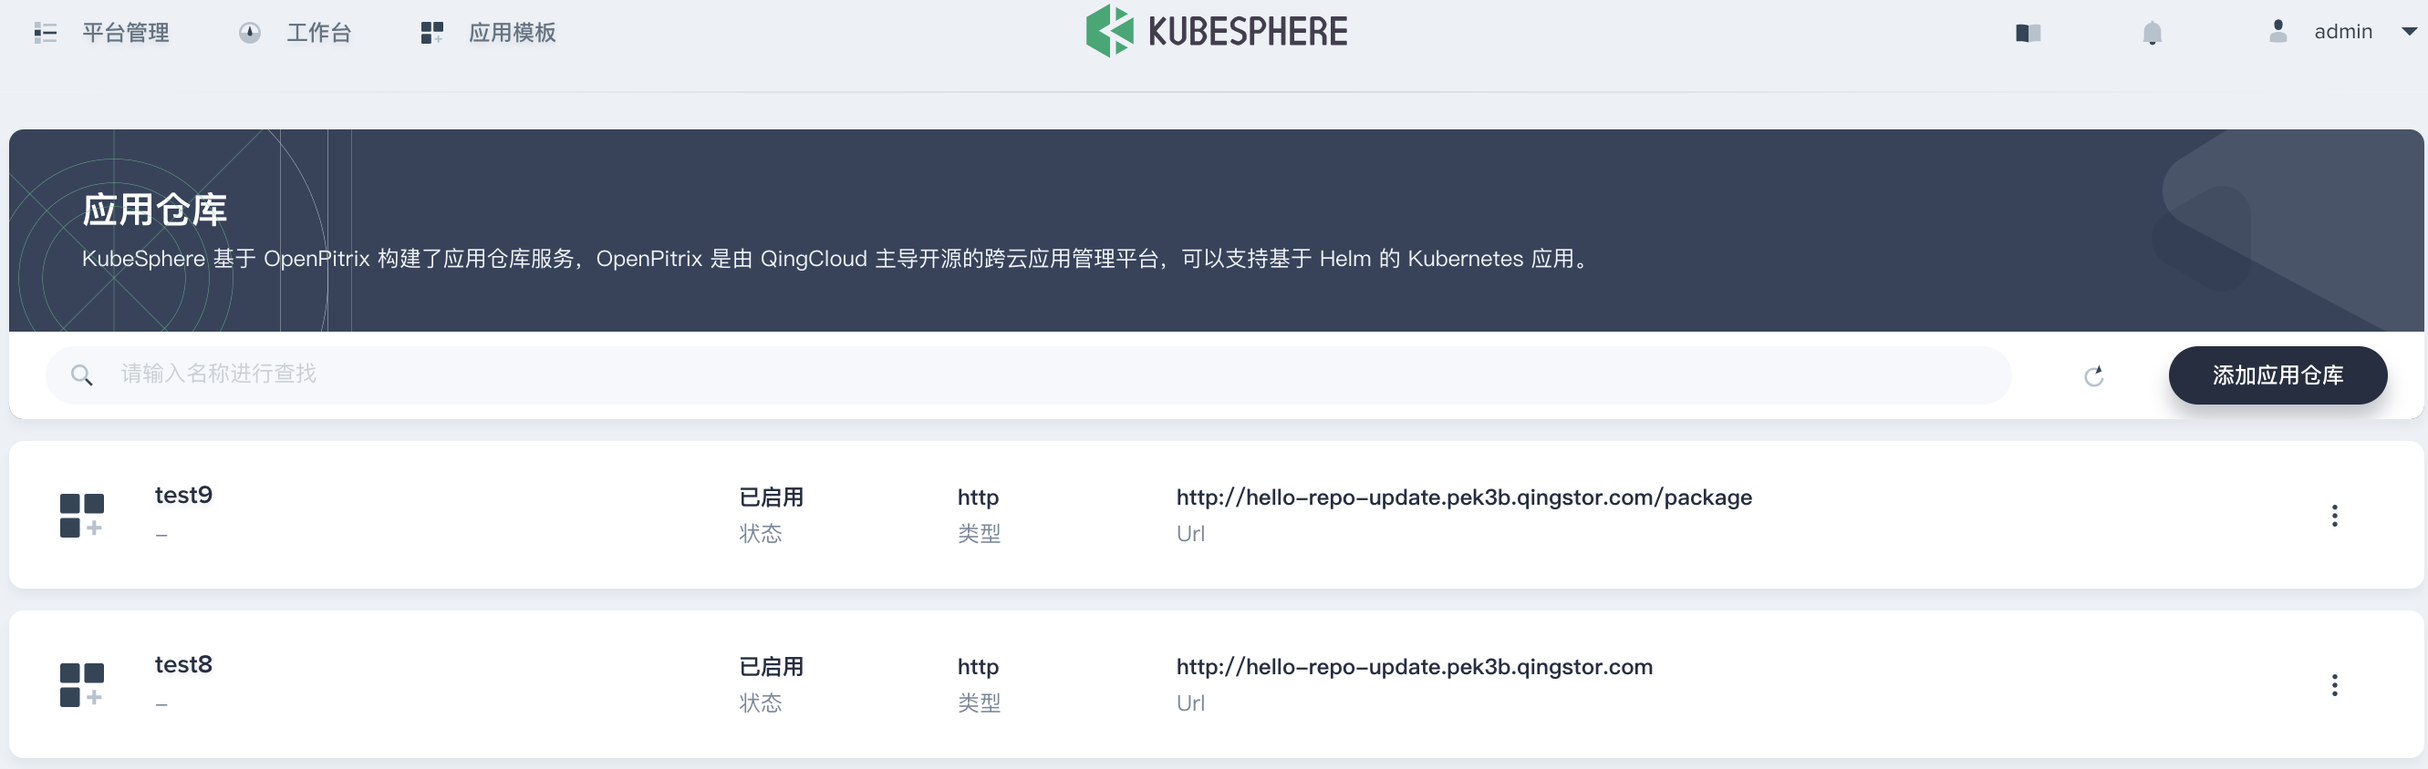
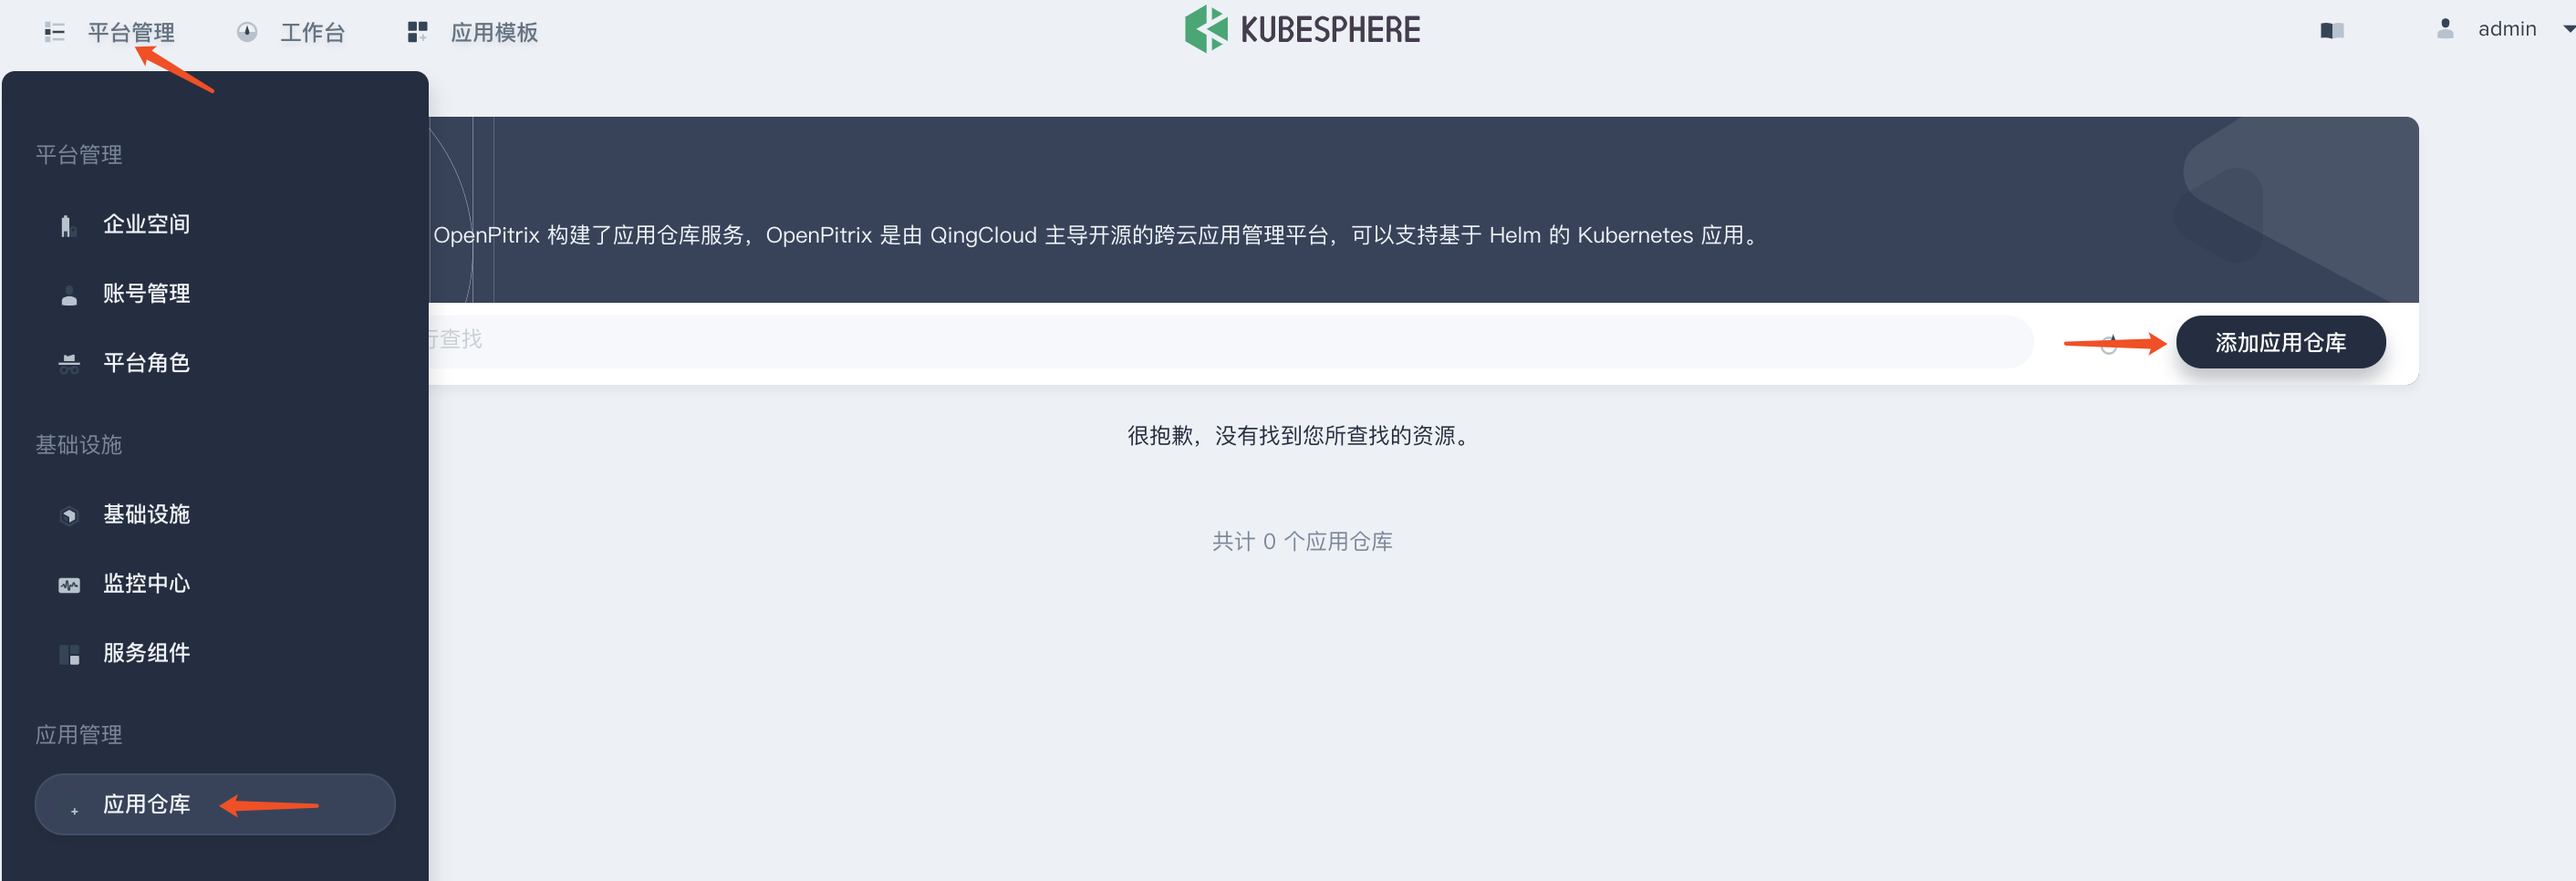
add app template

diff --git a/content/advanced-v1.0/zh-CN/app-template/app-template.md b/content/advanced-v1.0/zh-CN/app-template/app-template.md
@@ -2,9 +2,49 @@
 title: "应用模板"
 ---
 
-应用为用户提供完整的业务功能，由一个或多个特定功能的组件组成。KubeSphere 应用模板所纳管的应用基于 Helm 打包规范构建，并通过统一的公有或私有的应用仓库交付使用，应用可根据自身特性由一个或多个 Kubernetes 工作负载 (workload) 和服务组成。
+应用模板是 KubeSphere 中应用的存储、交付、管理途径，应用模板所纳管的应用基于 [Helm](https://helm.sh/) 打包规范构建，并通过统一的公有或私有的应用仓库交付使用，应用可根据自身特性由一个或多个 Kubernetes 工作负载 (workload) 和服务 (Service) 组成。
 
-一键部署应用基于 KubeSphere 应用模板，应用模板可以查看来自所有应用仓库的应用，通过可视化的方式在 KubeSphere 中展示并提供部署及管理功能，常用来提供开发和测试使用的场景所需的中间件服务。用户可以基于应用模板快速地一键部署常用的应用到 KubeSphere 中，通过编辑服务的外网访问方式，用户可以在外部访问该应用。KubeSphere 基于 [OpenPitrix](https://openpitrix.io) 构建了应用仓库服务，在使用应用模板前可以添加一个包含应用的应用仓库，详见 [添加应用仓库](../../platform-management/app-repo)，KubeSphere 会自动加载此仓库下的所有应用。本示例也准备了一个示例仓库仅供测试部署使用。
+应用模板通过可视化的方式在 KubeSphere 中展示并提供部署和管理的功能，用户能够基于应用模板快速地一键部署应用至所选的项目中。应用模板对内可作为团队间共享企业创造的中间件、业务系统等，对外可作为根据行业特性构建行业交付标准、交付流程和交付路径的基础，用户根据不同场景需求和可见级别服务于不同的业务场景。
+
+在使用应用模板前，需要预先添加应用仓库。KubeSphere 基于 [OpenPitrix](https://openpitrix.io) 构建了应用仓库服务，在使用应用模板前可以添加一个包含应用的应用仓库，并将符合 Helm 规范的应用配置包上传至应用仓库后端的对象存储中，KubeSphere 会自动加载此仓库下的所有应用，详见 [添加应用仓库](../../platform-management/app-repo)。
+
+![使用应用模板流程](/app-template.svg)
+
+除此之外，应用模板还可以结合 OpenPitrix 的应用全生命周期管理的功能，支持对接应用服务商、开发者和普通用户，通过应用上传、应用审核、部署测试、应用发布、应用版本管理等功能，构建公有或私有的应用商店，为 KubeSphere 提供应用模板服务，企业也可以基于此来建立行业公有或专有应用商店，实现标准化的应用一键交付部署，详见 [OpenPitrix 官方文档](https://docs.openpitrix.io/v0.3/zh-CN/user-guide/introduction/)。
+
+## 应用列表
+
+在所有的项目中，都提供了一个 **应用** 入口，这里作为应用模板的入口，应用部署后其也可以作为一个应用列表来管理当前项目下的所有应用。
+
+![应用列表](/ae-app-list.png)
+
+点击 **部署新应用** 即可进入 **应用模板** 页。
+
+## 应用模板
+
+### 添加示例仓库
+
+在前面提到过，使用应用模板前，需要集群管理员预先添加可用的应用仓库，用户才可以在应用模板中访问和部署应用。
+
+本文档提供了一个示例应用仓库仅用于功能演示，用户可根据需求自行在对象存储中上传应用配置包然后添加应用仓库。
+
+1、使用集群管理员账户登录 KubeSphere 管理控制台，点击左上角 **平台管理 → 应用仓库**，进入列表页。
+
+![应用仓库列表](/ae-apprepo_list.png)
+
+2、点击右上角 **添加应用仓库** 按钮。
+
+3、在弹出窗口填写示例应用仓库的基本信息，URL 选择 https，地址填写 `https://helm-chart-repo.pek3a.qingstor.com/kubernetes-charts/`，然后点击 **验证** 按钮，待验证通过后点击 **确定**，完成应用仓库的添加。
+
+![示例仓库信息](/app-repo-demo.png)
+
+### 访问应用模板
+
+切换为 project-regular 即项目的普通用户，登录 KubeSphere, 点击控制台顶部的 **应用模板**，即可看到示例应用仓库中的所有应用已被导入到了应用模板中，此时用户即可浏览或搜索所需应用进行一键部署至所需的项目中。
+
+![应用模板页](/app-template-page.png)
+
+关于一键部署应用的步骤示例，参考 [快速入门 - 一键部署应用](../../quick-start/one-click-deploy)
 
 
 
